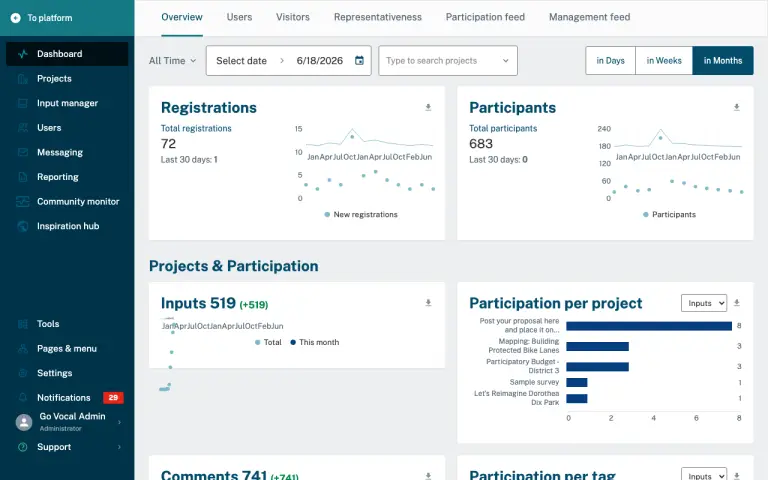
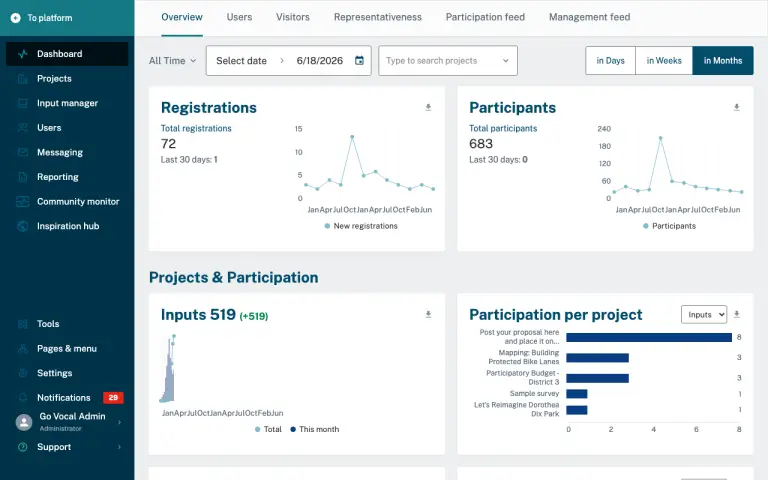
bo-dashboard: fix line/dot desync (force 130px plot) + ground Input-status donut
CRITICAL: line dots rendered far below the lines. The line svg.db-line was
collapsing to ~42px because canonical .gv-bo-chartcard svg{height:auto} (0,1,1)
out-specified .db-line{height:130px} (0,1,0); the 600x120 viewBox squished to
width/5 while the .ch-dots overlay stayed 130px. Fix with
.gv-bo-chartcard svg.db-line{height:130px} (0,2,1) — dots now align to 0.05px and
the lines fill the real plot height. Also ground the Input-status donut: segment
#40B8C5 on a #E0E0E0 track (add --gv-chart-teal-light token).

diff --git a/pages/bo-dashboard/index.html b/pages/bo-dashboard/index.html
@@ -105,7 +105,10 @@
     .ch-legend { display: flex; flex-wrap: wrap; gap: 14px; margin-top: 12px; font-size: var(--gv-fs-13); color: var(--gv-text-primary); justify-content: center; }
     .ch-legend span { display: inline-flex; align-items: center; gap: 6px; }
     .ch-legend i { width: 9px; height: 9px; border-radius: 50%; display: inline-block; }
-    .db-line { width: 100%; height: 130px; display: block; }
+    /* Force the real plot height — must out-specify the canonical
+       `.gv-bo-chartcard svg { height:auto }` (0,1,1), else the 600x120 viewBox
+       squishes to width/5 (~42px) and the line + its .ch-dots overlay (130px) desync. */
+    .gv-bo-chartcard svg.db-line { width: 100%; height: 130px; display: block; }
     /* Line-chart frame: y-axis scale + chart area + month axis along the bottom. */
     .ch-line { display: grid; grid-template-columns: 22px 1fr; gap: 6px; margin-top: 6px; }
     .ch-yaxis { display: flex; flex-direction: column; justify-content: space-between; align-items: flex-end; font-size: var(--gv-fs-xs); color: var(--gv-chart-axis); height: 130px; }
@@ -208,8 +211,8 @@
               <div class="db-cardhead"><h3>Input status</h3><span class="db-cardhead__tools"><span class="gv-icon" data-gv-icon="download"></span></span></div>
               <div class="db-donutwrap">
                 <svg class="db-donut__svg" width="150" height="150" viewBox="0 0 42 42" aria-hidden="true">
-                  <circle cx="21" cy="21" r="15.9" fill="none" stroke="var(--gv-grey-200)" stroke-width="5"></circle>
-                  <circle cx="21" cy="21" r="15.9" fill="none" stroke="var(--ch-teal)" stroke-width="5" stroke-dasharray="4 96" stroke-dashoffset="25"></circle>
+                  <circle cx="21" cy="21" r="15.9" fill="none" stroke="var(--gv-grey-300)" stroke-width="5"></circle>
+                  <circle cx="21" cy="21" r="15.9" fill="none" stroke="var(--gv-chart-teal-light)" stroke-width="5" stroke-dasharray="4 96" stroke-dashoffset="25"></circle>
                   <text x="21" y="20.5" text-anchor="middle" font-size="7" font-weight="700" fill="var(--gv-bo-primary)" font-family="var(--gv-font-family)">4%</text>
                   <text x="21" y="26.5" text-anchor="middle" font-size="2.8" fill="var(--gv-bo-primary)" font-family="var(--gv-font-family)">Feedback given</text>
                 </svg>

diff --git a/skills/govocal-ui/govocal-tokens.css b/skills/govocal-ui/govocal-tokens.css
@@ -161,6 +161,7 @@
   --gv-chart-blue-light: #4D85C6;               /* pie segment 2 — monochrome blue ramp (recharts-pie-sector, bo-dash-visitors) */
   --gv-chart-line:  #7FBBCA;                    /* cumulative "Total" line stroke — dominant (n=144) */
   --gv-chart-teal:  var(--gv-teal-400);         /* #01A1B1 accent series */
+  --gv-chart-teal-light: #40B8C5;               /* donut "feedback" segment (recharts-sector sum_feedback, bo-dash-overview) */
   --gv-chart-pos:   var(--gv-green-500);        /* #04884C likes / positive series */
   --gv-chart-neg:   var(--gv-red-500);          /* #E52516 dislikes / negative series */
   --gv-chart-axis:  var(--gv-cool-grey-600);    /* #596B7A axis tick text (recharts-cartesian-axis-tick-value, n=159) */

diff --git a/govocal-exports/DASHBOARD-CHARTS-WORKLOG.md b/govocal-exports/DASHBOARD-CHARTS-WORKLOG.md
@@ -96,11 +96,29 @@ Read this at the start of each loop; append after each iteration.
 - **Deploy:** yes.
 - Reusable: to eyeball off-Overview tabs, render with playwright clicking `.gv-bo-tab[data-db=…]`.
 
+### Loop 6 — 2026-06-18 — CRITICAL fix: line/dot desync + Input-status donut colours
+- **BUG (user-reported, screenshot):** line-chart dots sat far BELOW the lines. Root cause:
+  the line `svg.db-line` was rendering at ~42px, not 130px — the canonical
+  `.gv-bo-chartcard svg { height:auto }` (specificity 0,1,1) was overriding the page's
+  `.db-line { height:130px }` (0,1,0), so the 600x120 viewBox squished to width/5 while the
+  `.ch-dots` overlay stayed 130px → desync. (Also why lines looked flat/short since loop 2.)
+  **FIX:** `.gv-bo-chartcard svg.db-line { height:130px }` (0,2,1) out-specifies canonical.
+  Measured with playwright: svgHeight now 130, max dot↔line delta **0.05px** (was ~67px).
+- **Donut (Input status):** confirmed real recharts-sector = #40B8C5 (sum_feedback) on #E0E0E0
+  (sum_no_feedback). Added `--gv-chart-teal-light: #40B8C5`; donut segment --ch-teal→that,
+  track --gv-grey-200→--gv-grey-300. (Stackbar/status-legend colours NOT yet grounded — left.)
+- **Verify:** lint ✓. Eyeball ✓ (dots on the line, lines fill height). verify:all pending bg.
+- **Deploy:** yes.
+
 ## Next gaps (priority)
-1. Input status DONUT (Overview) + Events: real recharts-sector showed #40B8C5 segment on
-   #E0E0E0 (grey-300) track; page uses --ch-teal (#01A1B1) on --gv-grey-200. CONFIRM the
-   #40B8C5 belongs to the donut (probe bo-dash-overview donut selector) then ground it.
-   Also: pies have a white sector separator stroke the page lacks — add thin #fff stroke.
+1. Pies: real recharts has white (#fff) sector separators the page's concentric-arc pieSVG
+   lacks — add thin #fff strokes between segments.
+2. Input-status STACKBAR + status legend colours (Under consideration/Implemented/Accepted/
+   Rejected) — not yet grounded; probe real status palette before touching.
+3. Static line SVGs (Emails ~L258, Visitors traffic ~L327): now 130px too — add dots if real shows them.
+4. y-axis tick count/values per chart; combo right-axis for bars.
+5. Per-tab parity (Users, Visitors, Representativeness empty-state, feed tables).
+6. NOTE coupling: `.ch-dots` height (130px) must match `svg.db-line` height (130px) — keep in sync.
 2. Reactions chart is a single line in the page but real = Total line + Likes(#073F80) +
    Dislikes(#073f80b3 @70%) bars — consider a proper multi-series combo. Bigger change.
 3. Combo bar THICKNESS — re-measure a single chart's slot step cleanly, then ground width.
